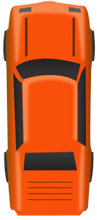
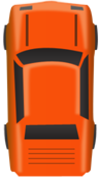
Пофикшен баг с растягиванием автомобиля при движении. Пересмотрены хитбоксы. Изменён дизайн меню.

diff --git a/menu_and_game/menu.py b/menu_and_game/menu.py
@@ -5,8 +5,6 @@ import sqlite3
 from animated_background import Car
 from record import Record
 from button import Button
-from roads import choose_roads
-
 
 
 class Menu:
@@ -48,9 +46,9 @@ class Menu:
                                    (66, 245, 206),
                                    (255, 204, 0), (227, 66, 245), 1, 46, self.roads)
 
-        self.settings_button = Button(10, 280, 232, 45, 'Настройки', screen,
-                                   (66, 245, 206),
-                                   (255, 204, 0), (227, 66, 245), 1, 46, self.setting)
+        self.settings_button = Button(width - 142, 70, 132, 45, 'Опции', screen,
+                                      (66, 245, 206),
+                                      (255, 204, 0), (227, 66, 245), 1, 46, self.setting)
         self.buttons = [self.start_button, self.quit_button, self.shop_button,
                         self.garage_button, self.roads_button, self.settings_button]
         self.game = None
@@ -79,28 +77,31 @@ class Menu:
 
     def render_record(self):
         all_records = self.record.read_records()
+
         records = []
         for data in all_records:
             if data[2] == self.login:
                 records.append(data)
+
         records.sort(key=lambda x: x[1])
-        if len(records) < 5:
+        if 0 < len(records) < 5:
             self.header = 'Последние заезды:'
         elif len(records) == 0:
             self.header = 'Начни игру!'
         else:
             self.header = 'Топ-5 заездов:'
             records = records[::-1][:5][::-1]
+        records = records[::-1]
         font = pygame.font.SysFont('Montserrat', 55)
         header = font.render(self.header, True, (255, 204, 0))
         self.screen.blit(header, (10, 400))
         if records:
-            y_coord = 710
+            y_coord = 460
             font = pygame.font.SysFont('Montserrat', 40)
             for i in records:
                 rec = font.render(f'{i[1]} сек.', True, (66, 245, 206))
                 self.screen.blit(rec, (80, y_coord))
-                y_coord -= 50
+                y_coord += 50
 
     def check_mouse_motion(self, pos):
         for btn in self.buttons:
@@ -131,7 +132,7 @@ class Menu:
     def setting(self):
         self.in_settings = True
         self.music.stop()
-    
+
     def garage(self):
         self.in_garage = True
         self.music.stop()

diff --git a/menu_and_game/player.py b/menu_and_game/player.py
@@ -18,7 +18,7 @@ class Player(pygame.sprite.Sprite):
         self.img_name = f'Car{chosen_car}'
         self.rect = self.image.get_rect()
         self.rect.x = 450
-        self.rect.y = 580
+        self.rect.y = 450
         self.vx = 0
         self.vy = 0
         self.got_coins = 0
@@ -80,12 +80,10 @@ class Player(pygame.sprite.Sprite):
         if self.rect.x > 0:
             self.image = Player.image
             self.image.set_colorkey((255, 255, 255))
-            self.image = pygame.transform.scale(self.image, (100, 180))
 
     def unmove_right(self):
         if self.rect.x < 800 - self.rect.width:
             self.image = Player.image
-            self.image = pygame.transform.scale(self.image, (100, 180))
             self.image.set_colorkey((255, 255, 255))
 
     def check(self):
@@ -101,9 +99,8 @@ class Player(pygame.sprite.Sprite):
     def update_image(self, choosen):
         Player.image = pygame.image.load(self.path + f'\\menu_and_game\\game_data\\Car{choosen}.png')
         self.image = Player.image
-        self.image = pygame.transform.scale(self.image, (100, 180))
         self.image.set_colorkey((255, 255, 255))
         self.rect = self.image.get_rect()
         self.rect.x = 450
-        self.rect.y = 580
+        self.rect.y = 450
         self.img_name = f'Car{choosen}'
